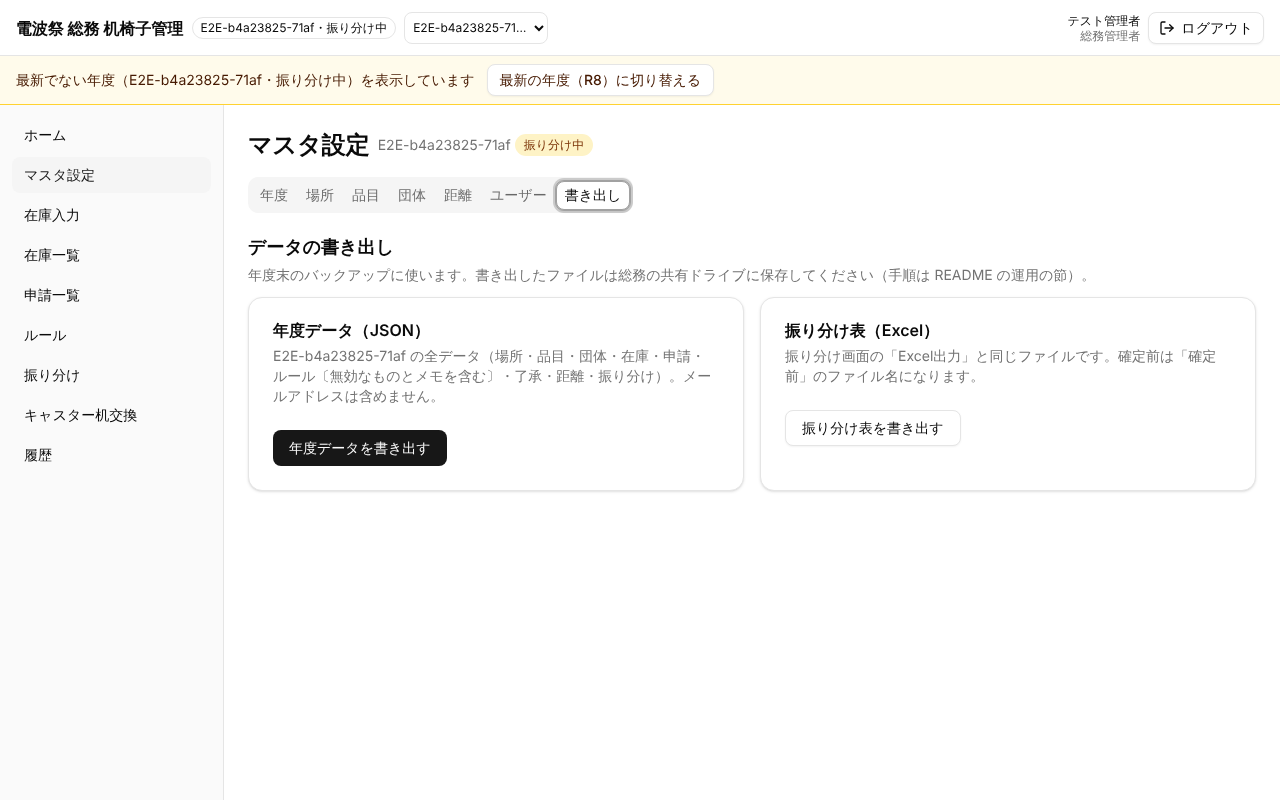
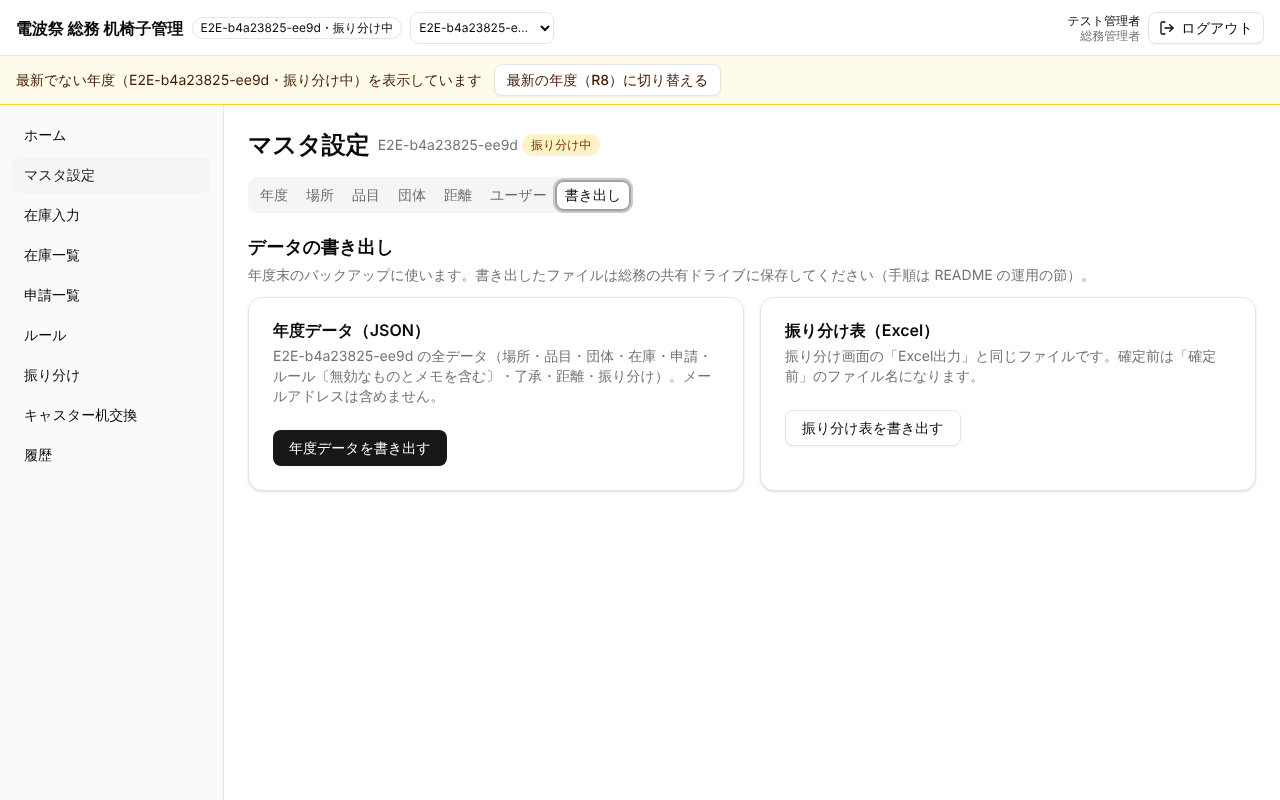
feat(T09): dashboard and home screenshots; keep the title on one line on phones
Claude-Session: https://claude.ai/code/session_01WNbyY2riVdfm15kp8tp6es

diff --git a/e2e/shots/T09.shots.ts b/e2e/shots/T09.shots.ts
@@ -1,9 +1,10 @@
 // T09 のスクリーンショット（画面の設計 7.4）。`pnpm e2e:shots --grep T09` で notes/T09/ に撮る（CI では流さない）。
-// 段 1：マスタ設定（settings-*）。段 2 がダッシュボード・ホーム（dashboard-*・home-*）を足す。
+// 段 1：マスタ設定（settings-*）。段 2：ダッシュボード・ホーム（dashboard-*・home-*）。
 // 年度をまたぐ表（場所・品目・距離）には書かない（開くだけ）。
 import { expect, test, type Route } from '@playwright/test';
+import { loginAs } from '../helpers';
 import { storageStateFor } from '../support/auth';
-import { createScenario } from '../support/db';
+import { createScenario, sql } from '../support/db';
 import { S05_GROUP, SMALL } from '../support/datasets';
 import { MOBILE, PC, shoot } from '../support/shots';
 import { SEED_USER_IDS } from '../support/users';
@@ -130,4 +131,214 @@ test.describe('T09 マスタ設定（権限なし）', () => {
     await expect(page.getByRole('alert').filter({ hasText: '権限がありません' })).toBeVisible();
     await shoot(page, 'T09', 'settings-forbidden-pc');
   });
+});
+
+// ---- 段 2：ダッシュボード・ホーム（dashboard-*・home-*）
+
+/** 了承が要る置き換え（机(木) → キャスター机）を1行と、その了承の行を入れる */
+async function addSwap(yearId: string, roomId: string, groupId: string, status: 'asked' | 'declined' | null): Promise<void> {
+  const [desk] = await sql<{ id: string }>("select id from public.items where code = 'desk'");
+  const [caster] = await sql<{ id: string }>("select id from public.items where code = 'caster_desk'");
+  await sql(
+    `insert into public.allocations (year_id, source_room_id, group_id, item_id, requested_item_id, count, is_keep, origin)
+     values ($1, $2, $3, $4, $5, 2, false, 'manual')`,
+    [yearId, roomId, groupId, caster!.id, desk!.id],
+  );
+  if (status) {
+    await sql(
+      `insert into public.substitution_consents (group_id, from_item_id, to_item_id, status, count) values ($1, $2, $3, $4, 1)
+       on conflict (group_id, from_item_id, to_item_id) do update set status = excluded.status, count = excluded.count`,
+      [groupId, desk!.id, caster!.id, status],
+    );
+  }
+}
+
+test.describe('T09 ダッシュボード（管理者）', () => {
+  test.use({ storageState: storageStateFor('admin'), viewport: PC });
+
+  test('T09 ダッシュボード：振り分け中（了承の状況つき。PC）', async ({ page }) => {
+    const s = await createScenario({ status: 'allocating', dataset: 'synthetic', allocations: 'reference', roles: { admin: true } });
+    try {
+      // 了承の状況（拒否・依頼済み・未依頼）を1団体ずつ（在庫を超えるので error も出る）
+      await addSwap(s.yearId, s.ids.rooms['1-1']!, s.ids.groups['模擬店01']!, 'declined');
+      await addSwap(s.yearId, s.ids.rooms['1-1']!, s.ids.groups['模擬店02']!, 'asked');
+      await addSwap(s.yearId, s.ids.rooms['1-1']!, s.ids.groups['模擬店03']!, null);
+      await pinYear(page, SEED_USER_IDS.admin, s.yearId);
+      await page.goto('/');
+      await expect(page.getByTestId('dashboard-validation-counts')).toBeVisible();
+      await expect(page.getByTestId('dashboard-consent-statuses')).toBeVisible();
+      await shoot(page, 'T09', 'dashboard-allocating-pc', { fullPage: true });
+    } finally {
+      await s.cleanup();
+    }
+  });
+
+  test('T09 ダッシュボード：確定のダイアログと版の見張りの帯', async ({ page }) => {
+    const s = await createScenario({ status: 'allocating', dataset: 'synthetic', allocations: 'reference', roles: { admin: true } });
+    try {
+      await pinYear(page, SEED_USER_IDS.admin, s.yearId);
+      await page.goto('/');
+      await expect(page.getByTestId('dashboard-validation-counts')).toBeVisible();
+      await page.getByTestId('year-status-actions').getByRole('button', { name: '確定', exact: true }).click();
+      await expect(page.getByRole('dialog')).toBeVisible();
+      await page.getByRole('dialog').getByLabel(/理由/).fill('在庫の確認が済んだため');
+      await shoot(page, 'T09', 'dashboard-confirm-dialog-pc');
+      await page.keyboard.press('Escape');
+      await expect(page.getByRole('dialog')).toHaveCount(0);
+
+      // ほかの人が入力を変えた（版が進む）→ 画面に戻ったときに帯が出る
+      await sql('update public.stocks set count = count + 1 where year_id = $1 and room_id = (select min(room_id::text)::uuid from public.stocks where year_id = $1)', [s.yearId]);
+      await page.evaluate('window.dispatchEvent(new Event("visibilitychange"))');
+      await expect(page.getByTestId('stale-banner')).toBeVisible();
+      await expect(page.getByTestId('confirm-blockers')).toContainText('ほかの人が入力を変えました');
+      await shoot(page, 'T09', 'dashboard-stale-pc');
+    } finally {
+      await s.cleanup();
+    }
+  });
+
+  test('T09 ダッシュボード：受付中（未提出・未計数つき）、確定中と終了のダイアログ', async ({ page }) => {
+    const s = await createScenario({ status: 'requesting', dataset: 'synthetic', roles: { admin: true } });
+    const c = await createScenario({ status: 'confirmed', dataset: 'synthetic', allocations: 'reference', roles: { admin: true } });
+    try {
+      // 未提出を6団体、数えていない場所を2か所にする
+      await sql(
+        `delete from public.request_submissions where group_id in (select id from public.groups where year_id = $1 order by sort_order desc limit 6)`,
+        [s.yearId],
+      );
+      await sql("delete from public.stocks where year_id = $1 and room_id in (select id from public.rooms where name in ('1-1', '1-2'))", [s.yearId]);
+      await pinYear(page, SEED_USER_IDS.admin, s.yearId);
+      await page.goto('/');
+      await expect(page.getByTestId('dashboard-unsubmitted')).toBeVisible();
+      await shoot(page, 'T09', 'dashboard-requesting-pc', { fullPage: true });
+
+      const p2 = await page.context().newPage();
+      await pinYear(p2, SEED_USER_IDS.admin, c.yearId);
+      await p2.goto('/');
+      await expect(p2.getByTestId('dashboard-validation-counts')).toBeVisible();
+      await shoot(p2, 'T09', 'dashboard-confirmed-pc', { fullPage: true });
+      await p2.getByTestId('year-status-actions').getByRole('button', { name: '終了' }).click();
+      await expect(p2.getByTestId('close-export-json')).toBeVisible();
+      await shoot(p2, 'T09', 'dashboard-close-dialog-pc');
+      await p2.close();
+    } finally {
+      await c.cleanup();
+      await s.cleanup();
+    }
+  });
+
+  test('T09 ダッシュボード：読み込み中（スナップショットを止めて撮る）と空の年度（受付開始を押せない）', async ({ page }) => {
+    const s = await createScenario({ status: 'preparing', dataset: 'empty', roles: { admin: true } });
+    let release: () => void = () => undefined;
+    const held = new Promise<void>((r) => (release = r));
+    try {
+      await sql('update public.years set request_open_at = null, request_close_at = null where id = $1', [s.yearId]);
+      await page.route('**/rest/v1/stocks*', async (route: Route) => {
+        await held;
+        await route.continue();
+      });
+      await pinYear(page, SEED_USER_IDS.admin, s.yearId);
+      await page.goto('/');
+      await expect(page.getByTestId('dashboard-loading')).toBeVisible();
+      await shoot(page, 'T09', 'dashboard-loading-pc');
+      release();
+      await expect(page.getByTestId('dashboard-year')).toBeVisible();
+      await expect(page.getByTestId('year-status-actions').getByRole('button', { name: '受付開始' })).toBeDisabled();
+      await shoot(page, 'T09', 'dashboard-empty-pc', { fullPage: true });
+    } finally {
+      release();
+      await s.cleanup();
+    }
+  });
+
+  test('T09 ダッシュボード（スマホ）', async ({ page }) => {
+    const s = await createScenario({ status: 'allocating', dataset: 'synthetic', allocations: 'reference', roles: { admin: true } });
+    try {
+      await page.setViewportSize(MOBILE);
+      await pinYear(page, SEED_USER_IDS.admin, s.yearId);
+      await page.goto('/');
+      await expect(page.getByTestId('dashboard-validation-counts')).toBeVisible();
+      expect(await page.evaluate('document.documentElement.scrollWidth')).toBeLessThanOrEqual(MOBILE.width);
+      await shoot(page, 'T09', 'dashboard-mobile', { fullPage: true });
+    } finally {
+      await s.cleanup();
+    }
+  });
+});
+
+test.describe('T09 ダッシュボード（部員）', () => {
+  test.use({ storageState: storageStateFor('staff'), viewport: PC });
+
+  test('T09 部員のダッシュボード（状態のボタンなし・入力の誤りはコードだけ）', async ({ page }) => {
+    const s = await createScenario({ status: 'allocating', dataset: 'small', roles: { staff: true } });
+    try {
+      await addSwap(s.yearId, s.ids.rooms[SMALL.rooms.storageA]!, s.ids.groups[SMALL.groups.stall]!, 'declined');
+      await sql(
+        `insert into public.rules (year_id, code, kind, params, enabled)
+         values ($1, 'E2E-BROKEN', 'keep', jsonb_build_object('group', gen_random_uuid(), 'room', $2::uuid, 'items', jsonb_build_array('desk')), true)`,
+        [s.yearId, s.ids.rooms[SMALL.rooms.class1]],
+      );
+      await pinYear(page, SEED_USER_IDS.staff, s.yearId);
+      await page.goto('/');
+      await expect(page.getByTestId('dashboard-problems')).toBeVisible();
+      await shoot(page, 'T09', 'dashboard-staff-pc', { fullPage: true });
+    } finally {
+      await s.cleanup();
+    }
+  });
+});
+
+test.describe('T09 ホーム（団体代表）', () => {
+  test.use({ storageState: storageStateFor('rep'), viewport: MOBILE });
+
+  test('T09 団体代表のホーム（スマホ）：受付中と交換の依頼、確定後', async ({ page }) => {
+    const s = await createScenario({ status: 'requesting', dataset: 'small', repGroup: SMALL.groups.stall });
+    try {
+      await pinYear(page, SEED_USER_IDS.rep, s.yearId);
+      await page.goto('/');
+      await expect(page.getByTestId('rep-card')).toBeVisible();
+      await shoot(page, 'T09', 'home-rep-mobile', { fullPage: true });
+
+      await addSwap(s.yearId, s.ids.rooms[SMALL.rooms.storageA]!, s.ids.groups[SMALL.groups.stall]!, 'asked');
+      await sql("update public.years set status = 'allocating' where id = $1", [s.yearId]);
+      await page.reload();
+      await expect(page.getByTestId('rep-consent-asked')).toBeVisible();
+      expect(await page.evaluate('document.documentElement.scrollWidth')).toBeLessThanOrEqual(MOBILE.width);
+      await shoot(page, 'T09', 'home-rep-consent-mobile', { fullPage: true });
+
+      await sql("update public.years set status = 'confirmed' where id = $1", [s.yearId]);
+      await page.reload();
+      await expect(page.getByTestId('rep-final')).toBeVisible();
+      await shoot(page, 'T09', 'home-rep-final-mobile', { fullPage: true });
+    } finally {
+      await s.cleanup();
+    }
+  });
+});
+
+test.describe('T09 ホーム（閲覧のみ）', () => {
+  test.use({ storageState: storageStateFor('viewer'), viewport: MOBILE });
+
+  test('T09 閲覧のみのホーム（スマホ）：確定前と確定後', async ({ page }) => {
+    const s = await createScenario({ status: 'allocating', dataset: 'small', roles: { viewer: true } });
+    try {
+      await pinYear(page, SEED_USER_IDS.viewer, s.yearId);
+      await page.goto('/');
+      await expect(page.getByTestId('viewer-home')).toBeVisible();
+      await shoot(page, 'T09', 'home-viewer-mobile');
+      await sql("update public.years set status = 'confirmed' where id = $1", [s.yearId]);
+      await page.reload();
+      await expect(page.getByTestId('viewer-home').getByRole('link', { name: '振り分け表を見る' })).toBeVisible();
+      await shoot(page, 'T09', 'home-viewer-confirmed-mobile');
+    } finally {
+      await s.cleanup();
+    }
+  });
+});
+
+test('T09 ホーム（権限なし：招待されていない人）', async ({ page }) => {
+  await page.setViewportSize(PC);
+  await loginAs(page, 'outsider');
+  await expect(page.getByRole('heading', { name: '総務から招待されていません' })).toBeVisible();
+  await shoot(page, 'T09', 'home-not-invited-pc');
 });

diff --git a/apps/web/components/dashboard/rep-home.tsx b/apps/web/components/dashboard/rep-home.tsx
@@ -73,7 +73,9 @@ function RepCard({ card: c, year, now }: { card: RepGroupCard; year: YearRow; no
             {c.submittedAt ? (
               <span className="inline-flex items-center gap-1 text-emerald-800">
                 <CheckCircle2 aria-hidden className="size-4" />
-                提出済み（<TokyoTime value={c.submittedAt} format="short" />）
+                <span>
+                  提出済み（<TokyoTime value={c.submittedAt} format="short" />）
+                </span>
               </span>
             ) : (
               <span className="inline-flex items-center gap-1 text-amber-800">

diff --git a/apps/web/components/dashboard/dashboard.tsx b/apps/web/components/dashboard/dashboard.tsx
@@ -44,6 +44,8 @@ export function Dashboard({ yearId, audiences }: { yearId: string; audiences: re
   const header = (
     <PageHeader
       title="ダッシュボード"
+      // スマホ（390px）で題名が「最終読み込み」と「読み直す」に押されて折れないよう、題名の段を1行にする（T09a への申し送り）
+      className="[&>div:first-child]:basis-full md:[&>div:first-child]:basis-0"
       loadedAt={snap.data?.loadedAt ?? null}
       onReload={() => void snap.refetch()}
       reloading={snap.isFetching}
